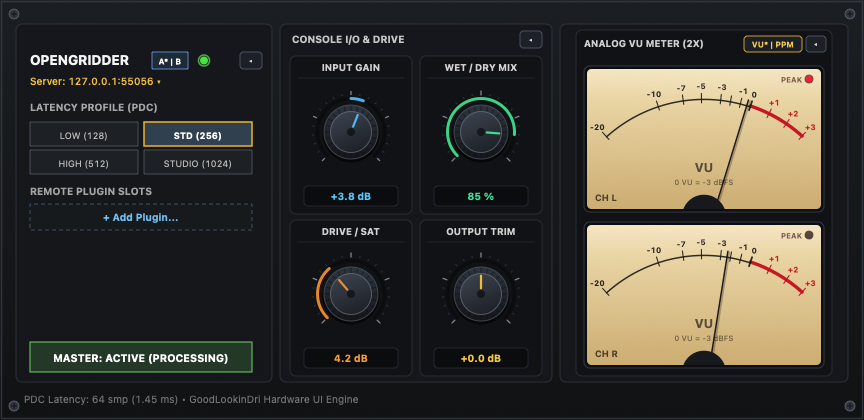
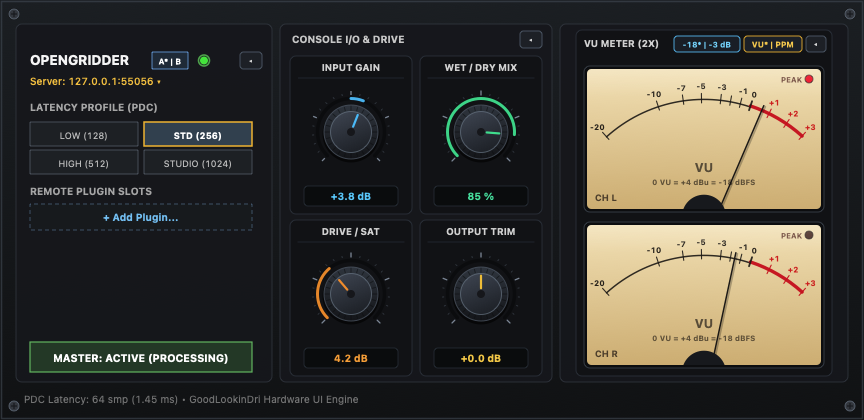
feat(gui): add switchable VU meter calibration (0 VU = +4 dBu = -18 dBFS and -3 dBFS)

Changed region(s): [[0.7812, 0.2476, 0.9062, 0.4952], [0.7812, 0.619, 0.875, 0.8357], [0.6562, 0.0619, 0.875, 0.1238]]

diff --git a/native/include/OpenGridderEditorView.mm b/native/include/OpenGridderEditorView.mm
@@ -42,6 +42,7 @@ static NSFont *MonoFont(CGFloat size, NSFontWeight weight) {
 @synthesize drive = _drive;
 @synthesize outputGain = _outputGain;
 @synthesize isVuMeterMode = _isVuMeterMode;
+@synthesize isVuCalibratedMinus18 = _isVuCalibratedMinus18;
 @synthesize rackCollapsed = _rackCollapsed;
 @synthesize consoleCollapsed = _consoleCollapsed;
 @synthesize meterCollapsed = _meterCollapsed;
@@ -70,6 +71,7 @@ static NSFont *MonoFont(CGFloat size, NSFontWeight weight) {
         _peakHoldLeft = 0.0f;
         _peakHoldRight = 0.0f;
         _isVuMeterMode = YES; // Default to classic 2x-wide VU meter mode (toggleable to 1x PPM)
+        _isVuCalibratedMinus18 = YES; // Default: 0 VU = +4 dBu = -18 dBFS (toggleable to 0 VU = -3 dBFS)
         _rackCollapsed = NO;
         _consoleCollapsed = NO;
         _meterCollapsed = NO;
@@ -451,10 +453,12 @@ static void DrawStudioConsoleKnob(CGContextRef ctx,
     [valStr drawAtPoint:NSMakePoint(CGRectGetMidX(pillRect) - valSize.width * 0.5, pillRect.origin.y + 3.5) withAttributes:valAttrs];
 }
 
-static void DrawAnalogVuDial(CGContextRef ctx, CGRect dialRect, float vuLinear, float peakLinear, NSString *chLabel) {
-    // Convert linear amplitude to VU (-20 .. +3 VU, where 0 VU = 0.7079 / -3 dBFS studio calibration for visual clarity)
+static void DrawAnalogVuDial(CGContextRef ctx, CGRect dialRect, float vuLinear, float peakLinear, BOOL calMinus18, NSString *chLabel) {
+    // Convert linear amplitude to VU (-20 .. +3 VU)
+    // calMinus18 == YES: 0 VU = +4 dBu = -18 dBFS
+    // calMinus18 == NO:  0 VU = -3 dBFS
     float db = (vuLinear > 0.0001f) ? (20.0f * std::log10(vuLinear)) : -60.0f;
-    float vuVal = db + 3.0f; // 0 VU at -3 dBFS
+    float vuVal = db + (calMinus18 ? 18.0f : 3.0f);
     float normVu = 0.0f;
     if (vuVal <= -20.0f) {
         normVu = 0.0f;
@@ -580,10 +584,10 @@ static void DrawAnalogVuDial(CGContextRef ctx, CGRect dialRect, float vuLinear, 
 
     if (isWideDial) {
         NSDictionary *subAttrs = @{
-            NSFontAttributeName: MonoFont(7.5, NSFontWeightMedium),
-            NSForegroundColorAttributeName: [NSColor colorWithCalibratedRed:0.26 green:0.22 blue:0.16 alpha:0.68]
+            NSFontAttributeName: MonoFont(7.5, NSFontWeightBold),
+            NSForegroundColorAttributeName: [NSColor colorWithCalibratedRed:0.24 green:0.20 blue:0.14 alpha:0.78]
         };
-        NSString *subStr = @"0 VU = -3 dBFS";
+        NSString *subStr = calMinus18 ? @"0 VU = +4 dBu = -18 dBFS" : @"0 VU = -3 dBFS";
         NSSize subSz = [subStr sizeWithAttributes:subAttrs];
         [subStr drawAtPoint:NSMakePoint(pivotX - subSz.width * 0.5, faceRect.origin.y + 22.0) withAttributes:subAttrs];
     }
@@ -704,6 +708,7 @@ static void DrawCollapsedBankStrip(CGContextRef ctx, CGRect stripRect, NSString 
 static void DrawMasterMeteringBay(CGContextRef ctx,
                                   CGRect bayRect,
                                   BOOL isVuMode,
+                                  BOOL calMinus18,
                                   float ppmL,
                                   float ppmR,
                                   float vuL,
@@ -716,12 +721,12 @@ static void DrawMasterMeteringBay(CGContextRef ctx,
     CGContextSetRGBStrokeColor(ctx, 0.22, 0.25, 0.29, 0.85);
     StrokeRoundedRect(ctx, bayRect, 6.0, 1.0);
 
-    // Header Row: "PPM" / "ANALOG VU METER (2X)" + [VU* | PPM] Mode Toggle + [◂] Clap-Close Button
+    // Header Row: "PPM" / "VU METER (2X)" + Calibration Toggle [-18* | -3 dB] + [VU* | PPM] Mode Toggle + [◂] Clap-Close Button
     NSDictionary *hdrAttrs = @{
         NSFontAttributeName: SysFont(9.5, NSFontWeightBold),
         NSForegroundColorAttributeName: [NSColor colorWithCalibratedWhite:0.82 alpha:1.0]
     };
-    NSString *hdrTitle = isVuMode ? @"ANALOG VU METER (2X)" : @"PPM";
+    NSString *hdrTitle = isVuMode ? @"VU METER (2X)" : @"PPM";
     [hdrTitle drawAtPoint:NSMakePoint(bayRect.origin.x + 8.0, CGRectGetMaxY(bayRect) - 20.0) withAttributes:hdrAttrs];
 
     CGRect foldBtn = CGRectMake(CGRectGetMaxX(bayRect) - 26.0, CGRectGetMaxY(bayRect) - 22.0, 20.0, 16.0);
@@ -742,14 +747,29 @@ static void DrawMasterMeteringBay(CGContextRef ctx,
     [modeTxt drawAtPoint:NSMakePoint(CGRectGetMidX(modeBtn) - mSz.width * 0.5, modeBtn.origin.y + 2.5) withAttributes:modeAttrs];
 
     if (isVuMode) {
+        // VU Calibration Toggle Pill: [-18* | -3 dB] (0 VU = +4 dBu = -18 dBFS vs 0 VU = -3 dBFS)
+        CGRect calBtn = CGRectMake(CGRectGetMinX(modeBtn) - 70.0, CGRectGetMaxY(bayRect) - 22.0, 66.0, 16.0);
+        CGContextSetRGBFillColor(ctx, 0.13, 0.16, 0.20, 1.0);
+        FillRoundedRect(ctx, calBtn, 3.5);
+        CGContextSetRGBStrokeColor(ctx, 0.40, 0.78, 0.96, 0.85);
+        StrokeRoundedRect(ctx, calBtn, 3.5, 1.0);
+
+        NSString *calTxt = calMinus18 ? @"-18* | -3 dB" : @"-18 | -3* dB";
+        NSDictionary *calAttrs = @{
+            NSFontAttributeName: MonoFont(7.8, NSFontWeightBold),
+            NSForegroundColorAttributeName: [NSColor colorWithCalibratedRed:0.45 green:0.82 blue:0.98 alpha:1.0]
+        };
+        NSSize cSz = [calTxt sizeWithAttributes:calAttrs];
+        [calTxt drawAtPoint:NSMakePoint(CGRectGetMidX(calBtn) - cSz.width * 0.5, calBtn.origin.y + 2.5) withAttributes:calAttrs];
+
         // Dual Stacked 2x-Wide Classic Analog VU Meters (CH L & CH R)
         CGFloat dialW = bayRect.size.width - 16.0;
         CGFloat dialH = (bayRect.size.height - 46.0) * 0.5;
         CGRect topDial = CGRectMake(bayRect.origin.x + 8.0, bayRect.origin.y + 14.0 + dialH, dialW, dialH - 4.0);
         CGRect botDial = CGRectMake(bayRect.origin.x + 8.0, bayRect.origin.y + 8.0, dialW, dialH - 4.0);
 
-        DrawAnalogVuDial(ctx, topDial, vuL, ppmL, @"CH L");
-        DrawAnalogVuDial(ctx, botDial, vuR, ppmR, @"CH R");
+        DrawAnalogVuDial(ctx, topDial, vuL, ppmL, calMinus18, @"CH L");
+        DrawAnalogVuDial(ctx, botDial, vuR, ppmR, calMinus18, @"CH R");
     } else {
         // High-Resolution Digital Stereo PPM Bargraphs with dBFS Scale & Peak Hold
         CGFloat meterTop = CGRectGetMaxY(bayRect) - 32.0;
@@ -1168,7 +1188,7 @@ static void DrawMasterMeteringBay(CGContextRef ctx,
         CGFloat innerW = _isVuMeterMode ? 256.0 : 128.0;
         CGFloat innerX = meterBank.origin.x + (meterBank.size.width - innerW) * 0.5;
         CGRect meterBay = CGRectMake(innerX, 44.0, innerW, bounds.size.height - 74.0);
-        DrawMasterMeteringBay(ctx, meterBay, _isVuMeterMode, _meterLeft, _meterRight, vuL, vuR, holdL, holdR);
+        DrawMasterMeteringBay(ctx, meterBay, _isVuMeterMode, _isVuCalibratedMinus18, _meterLeft, _meterRight, vuL, vuR, holdL, holdR);
     }
 
     // Footer Status Text
@@ -1417,10 +1437,23 @@ static void DrawMasterMeteringBay(CGContextRef ctx,
         CGFloat innerW = _isVuMeterMode ? 256.0 : 128.0;
         CGFloat innerX = meterBank.origin.x + (meterBank.size.width - innerW) * 0.5;
         CGRect meterBay = CGRectMake(innerX, 44.0, innerW, bounds.size.height - 74.0);
-        CGRect meterFoldBtn = CGRectMake(CGRectGetMaxX(meterBay) - 28.0, CGRectGetMaxY(meterBay) - 22.0, 20.0, 16.0);
+        CGRect meterFoldBtn = CGRectMake(CGRectGetMaxX(meterBay) - 26.0, CGRectGetMaxY(meterBay) - 22.0, 20.0, 16.0);
         if (CGRectContainsPoint(meterFoldBtn, cp)) {
             [self setMeterCollapsed:YES];
             return;
+        }
+        CGRect modeBtn = CGRectMake(CGRectGetMinX(meterFoldBtn) - 62.0, CGRectGetMaxY(meterBay) - 22.0, 58.0, 16.0);
+        if (CGRectContainsPoint(modeBtn, cp)) {
+            [self setIsVuMeterMode:!_isVuMeterMode];
+            return;
+        }
+        if (_isVuMeterMode) {
+            CGRect calBtn = CGRectMake(CGRectGetMinX(modeBtn) - 70.0, CGRectGetMaxY(meterBay) - 22.0, 66.0, 16.0);
+            if (CGRectContainsPoint(calBtn, cp)) {
+                _isVuCalibratedMinus18 = !_isVuCalibratedMinus18;
+                [self setNeedsDisplay:YES];
+                return;
+            }
         }
         if (CGRectContainsPoint(meterBay, cp) || CGRectContainsPoint(meterBank, cp)) {
             [self setIsVuMeterMode:!_isVuMeterMode];

diff --git a/native/include/OpenGridderEditorView.h b/native/include/OpenGridderEditorView.h
@@ -60,6 +60,7 @@ typedef CGFloat NSFontWeight;
     float _peakHoldLeft;
     float _peakHoldRight;
     BOOL _isVuMeterMode;
+    BOOL _isVuCalibratedMinus18;
     BOOL _rackCollapsed;
     BOOL _consoleCollapsed;
     BOOL _meterCollapsed;
@@ -80,10 +81,11 @@ typedef CGFloat NSFontWeight;
 @property (nonatomic, assign) float wetDryMix;   // 0..1
 @property (nonatomic, assign) float drive;       // 0..1
 @property (nonatomic, assign) float outputGain;  // 0..1
-@property (nonatomic, assign) BOOL isVuMeterMode;    // YES = Analog VU (2x width), NO = Digital PPM (1x width)
-@property (nonatomic, assign) BOOL rackCollapsed;    // YES = Plugin Selection Bank clapped closed
-@property (nonatomic, assign) BOOL consoleCollapsed; // YES = Input/WetDry/Drive/Output Bank clapped closed
-@property (nonatomic, assign) BOOL meterCollapsed;   // YES = Metering Bank clapped closed
+@property (nonatomic, assign) BOOL isVuMeterMode;         // YES = Analog VU (2x width), NO = Digital PPM (1x width)
+@property (nonatomic, assign) BOOL isVuCalibratedMinus18; // YES = 0 VU = +4 dBu = -18 dBFS, NO = 0 VU = -3 dBFS
+@property (nonatomic, assign) BOOL rackCollapsed;         // YES = Plugin Selection Bank clapped closed
+@property (nonatomic, assign) BOOL consoleCollapsed;      // YES = Input/WetDry/Drive/Output Bank clapped closed
+@property (nonatomic, assign) BOOL meterCollapsed;        // YES = Metering Bank clapped closed
 
 @property (nonatomic, copy) void (^onParameterChanged)(uint32_t paramId, float normalizedValue);
 @property (nonatomic, copy) void (^onProfileChanged)(int newProfile);
